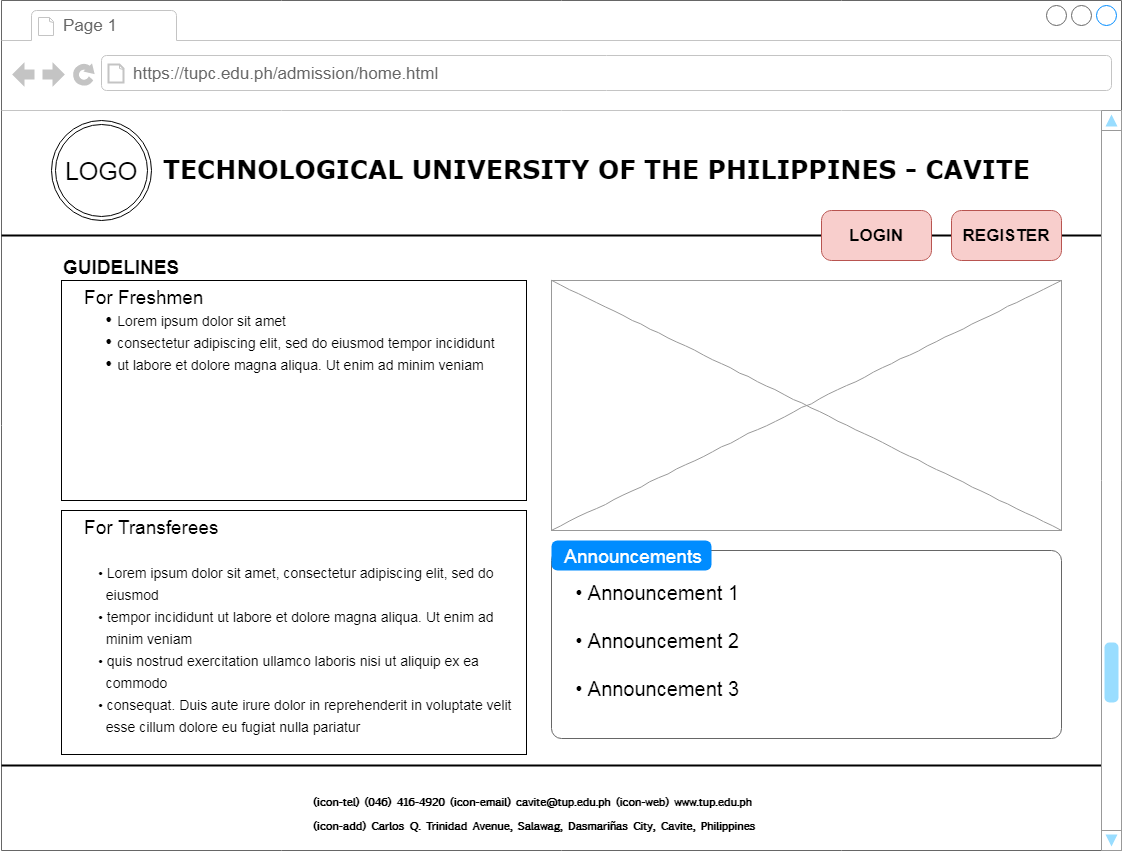
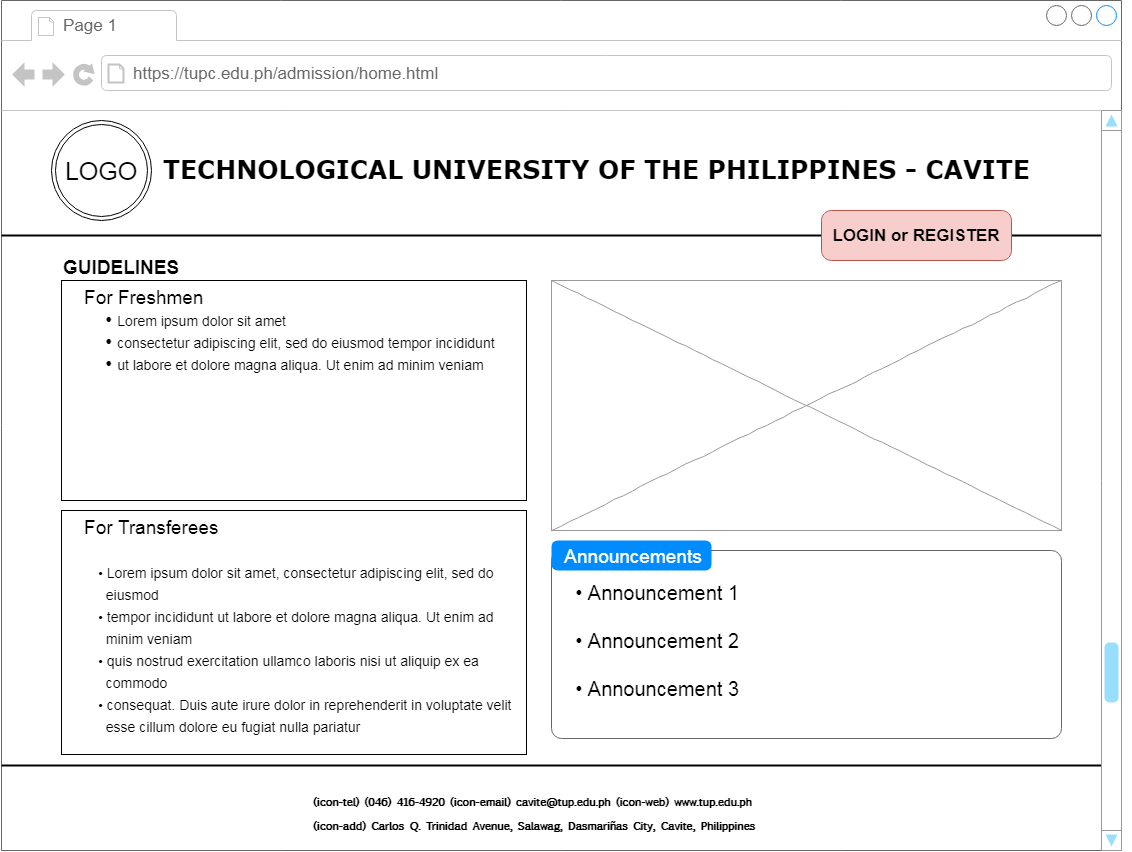
pinagisa yung login at register button sa home

diff --git a/admission/home.html b/admission/home.html
@@ -4,6 +4,7 @@
     <meta charset="UTF-8" />
     <meta http-equiv="X-UA-Compatible" content="IE=edge" />
     <meta name="viewport" content="width=device-width, initial-scale=1.0" />
+    <link rel="stylesheet" href="/home_style.css" />
     <title>
       Technological University of the Philippines - Cavite | Applicant Login
     </title>
@@ -12,17 +13,17 @@
     <!-- HEADER -->
     <header class="header-wrap">
       <div class="header-logo-tupc-name">
-        <a class="logo" href="applicant-login.html"
-          ><img
-            src="/res/tup_logo.png"
-            alt="This is TUP logo"
-            width="100px"
-            height="100px"
-        /></a>
-        <h1>Technological University of the Philippines - Cavite</h1>
+        <img
+          src="/res/tup_logo.png"
+          alt="This is TUP logo"
+          width="100px"
+          height="100px"
+        />
+        <h1 id="tupc-name">
+          Technological University of the Philippines - Cavite
+        </h1>
       </div>
     </header>
-    <hr />
     <div class="login-reg-btn">
       <button id="login-btn">LOGIN</button>
       <button id="reg-btn">REGISTER</button>
@@ -35,6 +36,31 @@
           <div class="freshmen-guidelines">
             <h3>For Freshmen</h3>
             <ul>
+              <li>Lorem ipsum dolor sit amet consectetur.</li>
+              <li>
+                Lorem ipsum dolor sit amet consectetur adipisicing elit.
+                Repellendus, eius.
+              </li>
+              <li>Lorem ipsum dolor sit amet, consectetur adipisicing elit.</li>
+              <li>Lorem ipsum dolor sit amet.</li>
+              <li>Lorem ipsum dolor sit amet consectetur.</li>
+              <li>
+                Lorem ipsum dolor sit amet consectetur adipisicing elit.
+                Repellendus, eius.
+              </li>
+              <li>Lorem ipsum dolor sit amet, consectetur adipisicing elit.</li>
+              <li>Lorem ipsum dolor sit amet.</li>
+              <li>Lorem ipsum dolor sit amet, consectetur adipisicing elit.</li>
+              <li>Lorem ipsum dolor sit amet.</li>
+              <li>Lorem ipsum dolor sit amet consectetur.</li>
+              <li>
+                Lorem ipsum dolor sit amet consectetur adipisicing elit.
+                Repellendus, eius.
+              </li>
+              <li>Lorem ipsum dolor sit amet, consectetur adipisicing elit.</li>
+              <li>Lorem ipsum dolor sit amet.</li>
+              <li>Lorem ipsum dolor sit amet, consectetur adipisicing elit.</li>
+              <li>Lorem ipsum dolor sit amet.</li>
               <li>Lorem ipsum dolor sit amet consectetur.</li>
               <li>
                 Lorem ipsum dolor sit amet consectetur adipisicing elit.
@@ -58,32 +84,36 @@
           </div>
         </fieldset>
       </div>
-    </div>
-    <div class="right-container">
-      <!-- TUPC IMAGES SLIDESHOW -->
-      <div class="tupc-images">
-        <h1>THIS AREA IS FOR TUPC IMAGES SLIDESHOW</h1>
+      <div class="right-container">
+        <!-- TUPC IMAGES SLIDESHOW -->
+        <div class="tupc-images">
+          <h1>THIS AREA IS FOR TUPC <br> IMAGES SLIDESHOW</h1>
+        </div>
+        <!-- ANNOUNCEMENT BOX -->
+        <div class="announcement-container">
+          <fieldset class="announcements">
+            <legend><b>Announcements</b></legend>
+            <ul>
+              <li>Lorem ipsum dolor sit amet.</li>
+              <li>Lorem ipsum dolor, sit amet consectetur adipisicing elit.</li>
+            </ul>
+          </fieldset>
+        </div>
       </div>
-      <!-- ANNOUNCEMENT BOX -->
-      <fieldset class="announcements">
-        <legend><b>Announcements</b></legend>
-        <ul>
-          <li>Lorem ipsum dolor sit amet.</li>
-          <li>Lorem ipsum dolor, sit amet consectetur adipisicing elit.</li>
-        </ul>
-      </fieldset>
     </div>
-    <hr />
+
     <!-- FOOTER -->
-    <footer class="footer">
-      <h5>
-        (icon-tel) (046) 416-4920 (icon-email) cavite@tup.edu.ph (icon-web)
-        www.tup.edu.ph
-      </h5>
-      <h5>
-        (icon-add) Carlos Q. Trinidad Avenue, Salawag, Dasmariñas City, Cavite,
-        Philippines
-      </h5>
+    <footer class="footer-wrap">
+      <div class="footer">
+        <h5>
+          (icon-tel) (046) 416-4920 (icon-email) cavite@tup.edu.ph (icon-web)
+          www.tup.edu.ph
+        </h5>
+        <h5>
+          (icon-add) Carlos Q. Trinidad Avenue, Salawag, Dasmariñas City,
+          Cavite, Philippines
+        </h5>
+      </div>
     </footer>
   </body>
 </html>

diff --git a/admission/home_style.css b/admission/home_style.css
@@ -1,0 +1,48 @@
+body {
+    margin: 0;
+    font-family: "Lato", sans-serif;
+}
+
+.header-wrap {
+    background-color: rgb(243, 169, 169);
+}
+
+.header-logo-tupc-name {
+    padding: 1vw;
+    display: flex;
+    flex-wrap: wrap;
+}
+
+.logo {
+    padding-left: 5%;
+}
+
+#tupc-name {
+    padding-left: 2%;
+}
+
+.tupc-images {
+    padding-top: 30%;
+    padding-bottom: 30%;
+}
+.login-reg-btn {
+    padding-left: 80%;
+}
+
+.main-body {
+    width: 100%;
+    display: flex;
+    flex-wrap: wrap;
+    justify-content: center;
+}
+
+.footer-wrap {
+    bottom: 0;
+    background-color: yellowgreen;
+    width: 100%;
+}
+
+.footer {
+    padding: 0.3%;
+    text-align: center;
+}
